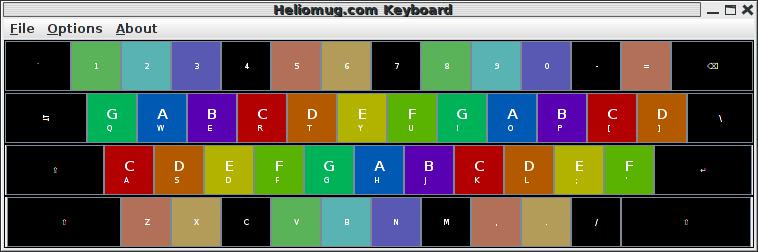
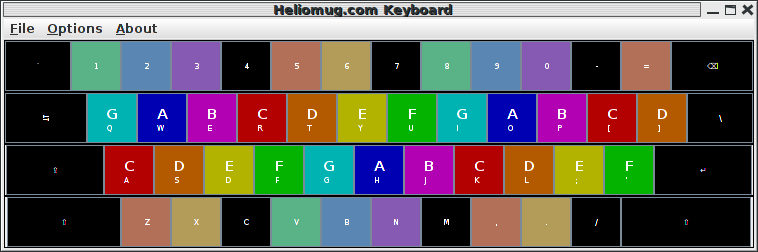
edited keyboard picture (better colors)

Changed region(s): [[0.3338, 0.1667, 0.7889, 1.0], [0.091, 0.1667, 0.3338, 0.5833], [0.7889, 0.5556, 0.8799, 0.7778]]

diff --git a/prog/java/index.html b/prog/java/index.html
@@ -75,7 +75,7 @@
       </section>
 
       <section title="Simple Keyboard" id="simpleKeyboard">
-        <h3>Ear Trainer</h3>
+        <h3>Simple Musical Keyboard</h3>
         <div class="picAndCap">
           <div class="capPic">
             <a href="./images/simpleKeyboard.png"><img class="captioned" src="./images/simpleKeyboard.png" alt="Simple Keyboard"></a>
